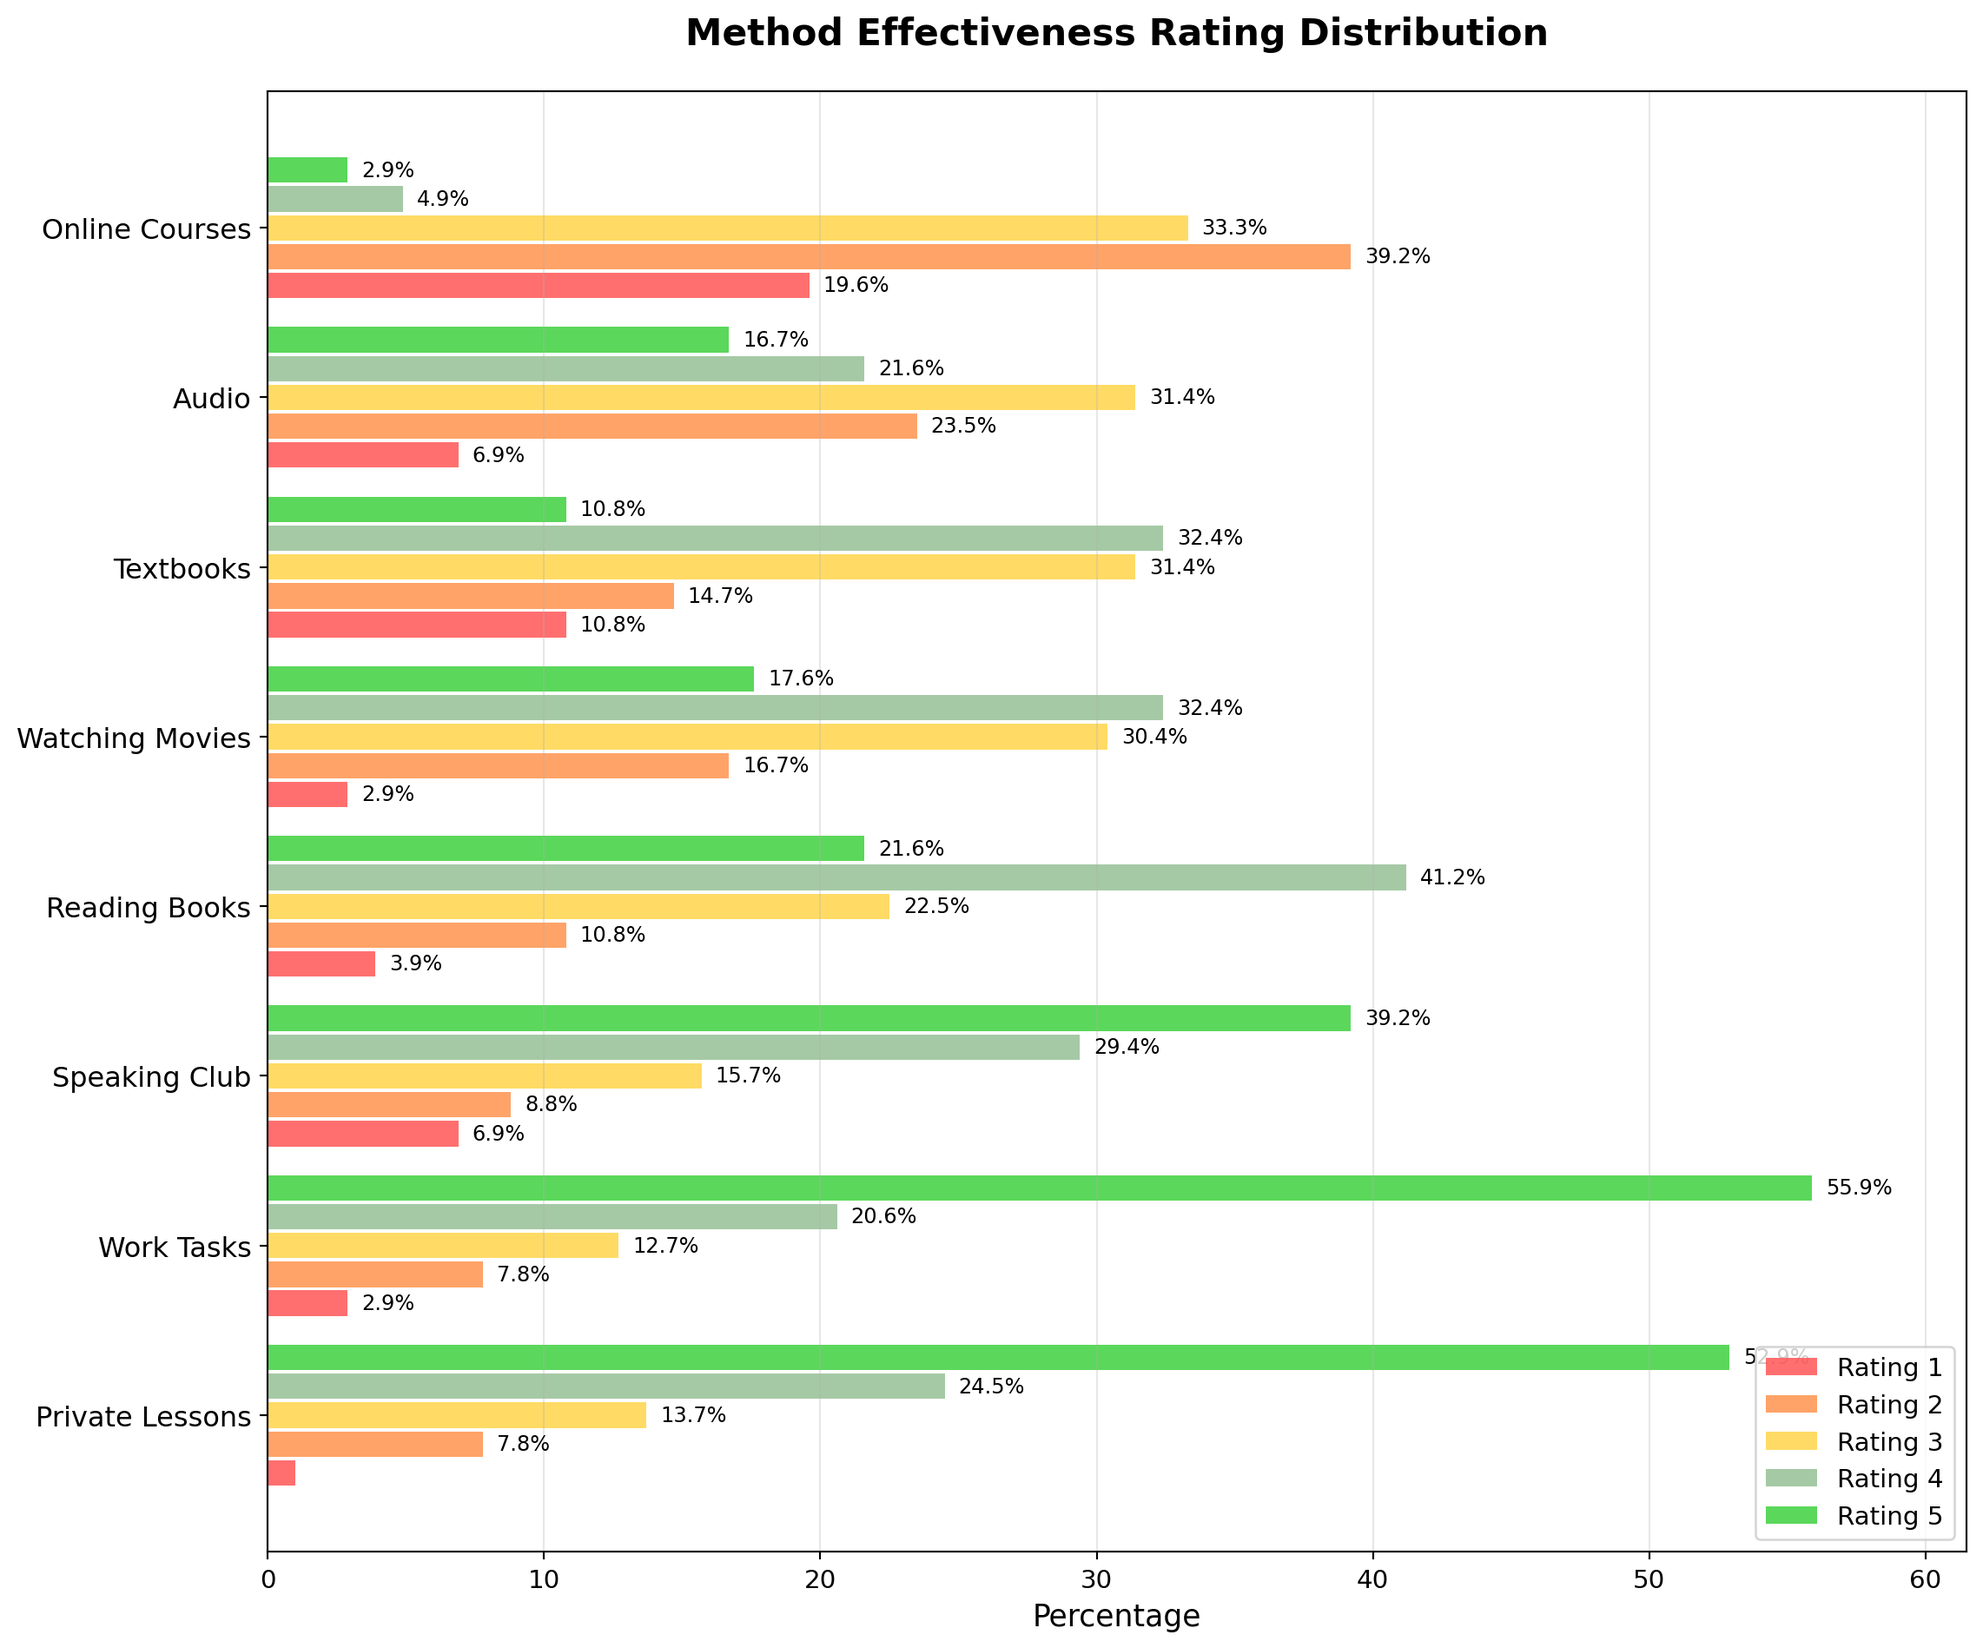
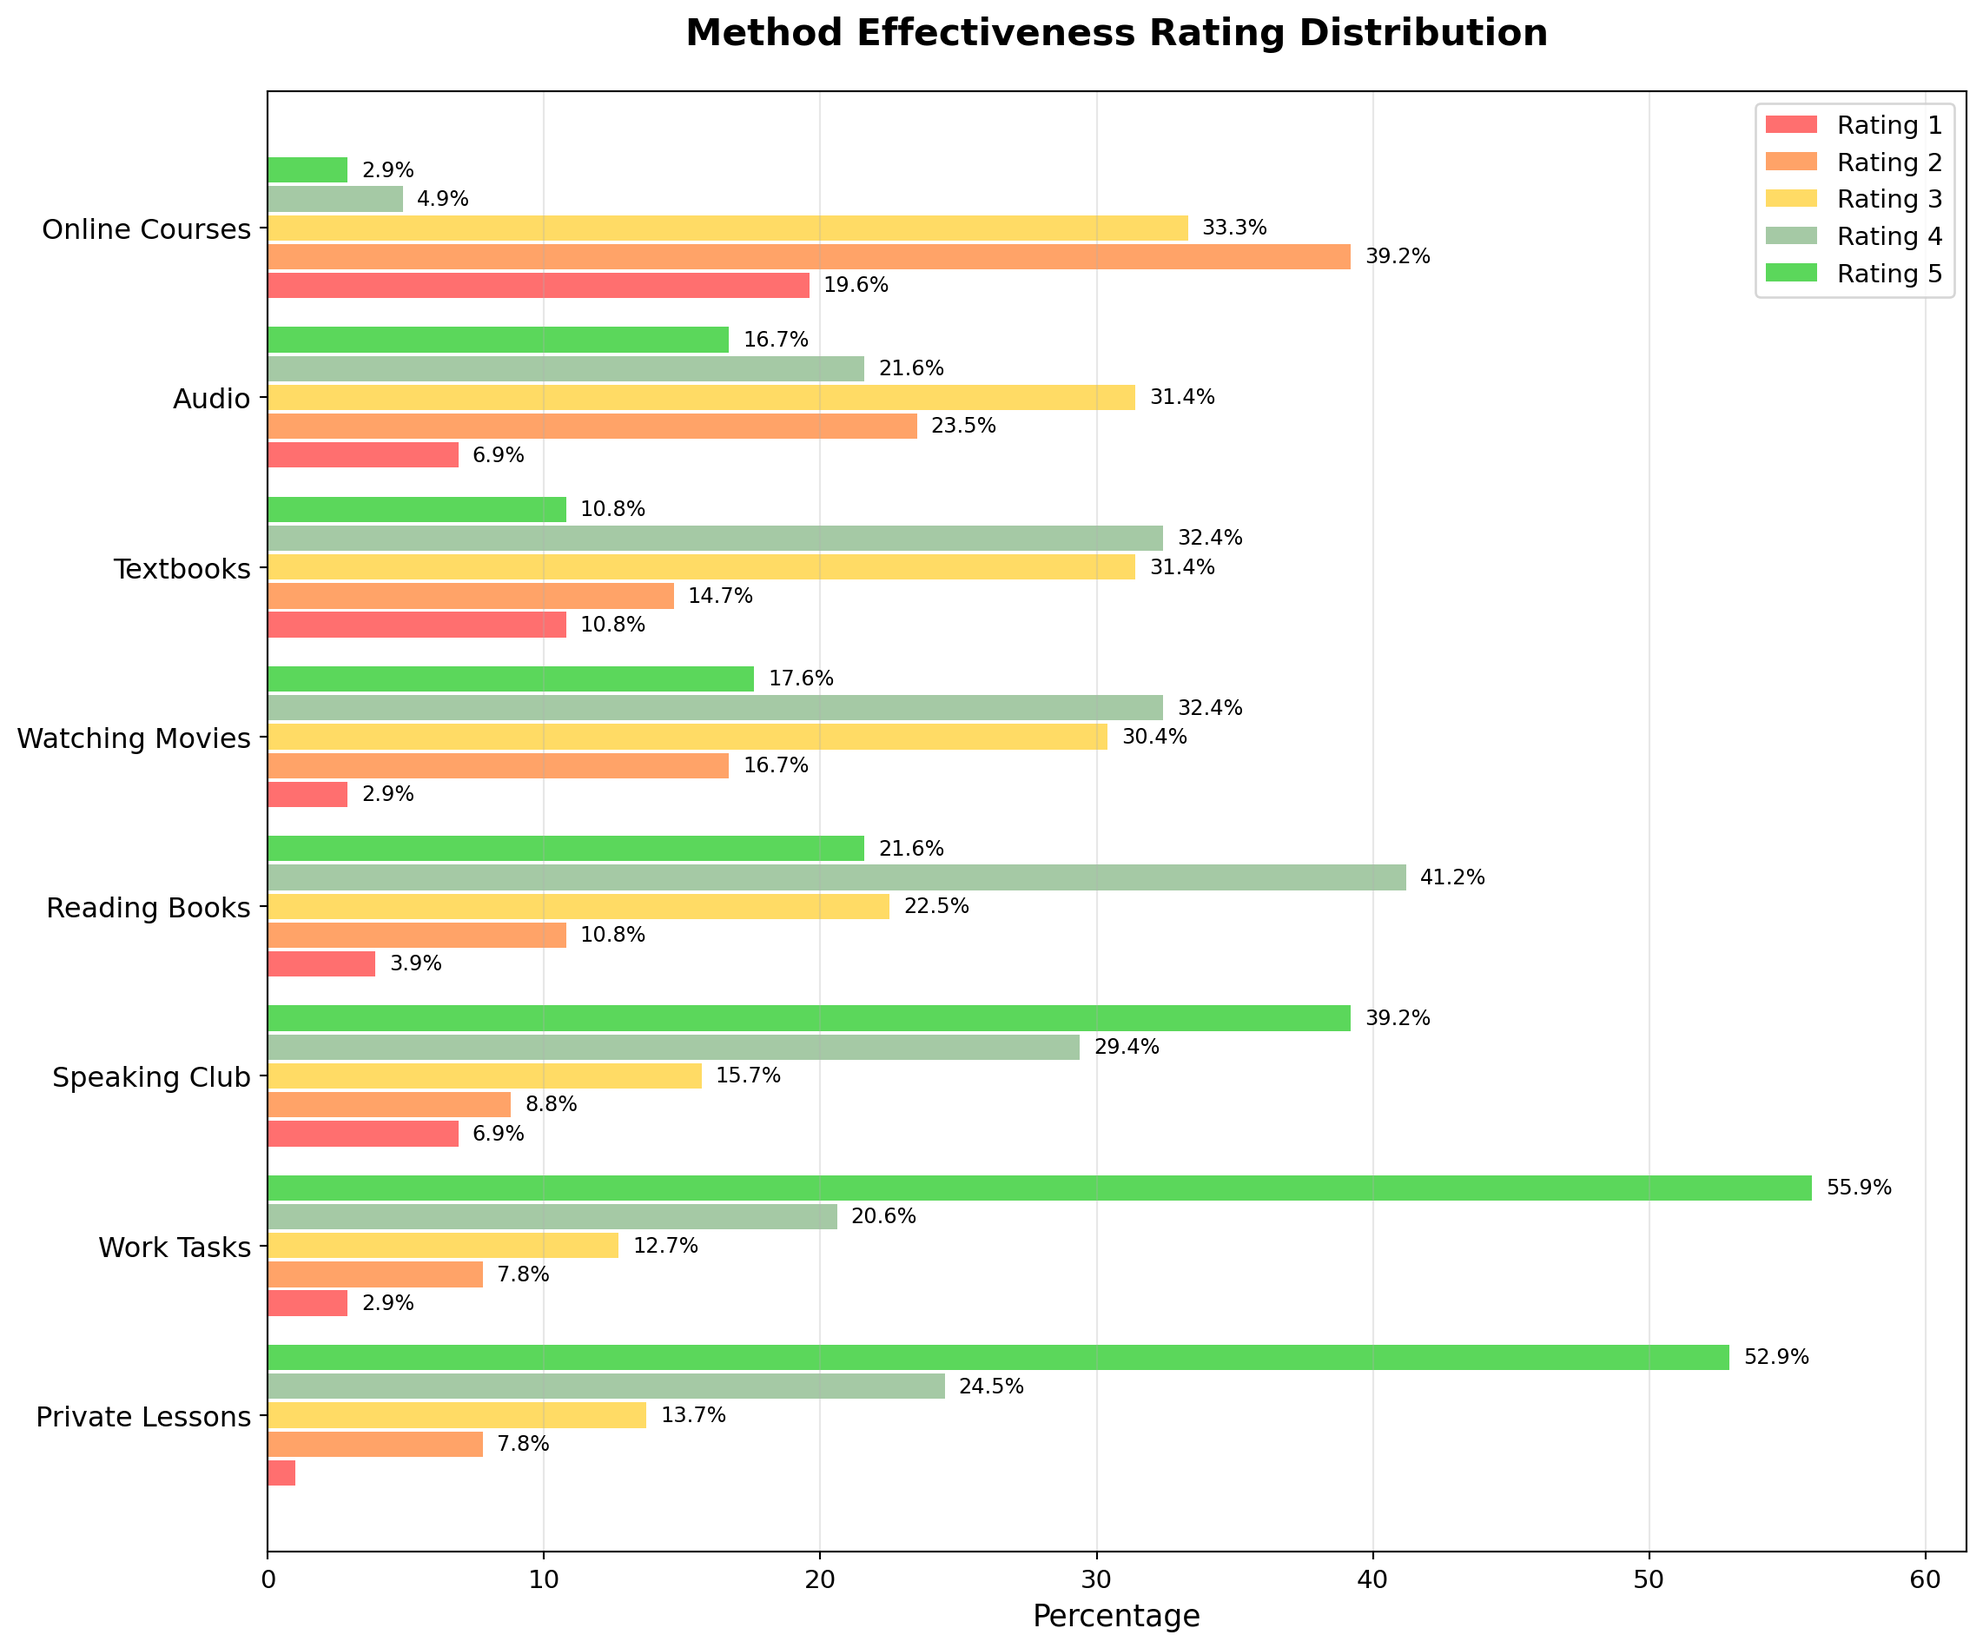
render obstacles

Changed region(s): [[0.8708, 0.8086, 0.9952, 0.9331], [0.8708, 0.0622, 0.9952, 0.1866]]

diff --git a/docs/notebooks/methods.html b/docs/notebooks/methods.html
@@ -184,7 +184,7 @@ pre > code.sourceCode > span > a:first-child::before { text-decoration: underlin
 
 
 <p>This page gives an overview the learning methods included to the survey. Our respondents rated the effectiveness and engagement of each of them on a scale of 1 to 5. Additionally, we asked them to mention additional learning methods they use.</p>
-<div id="a2e73a2b" class="cell" data-execution_count="1">
+<div id="91085343" class="cell" data-execution_count="1">
 <details class="code-fold">
 <summary>Code</summary>
 <div class="sourceCode cell-code" id="cb1"><pre class="sourceCode python code-with-copy"><code class="sourceCode python"><span id="cb1-1"><a href="#cb1-1" aria-hidden="true" tabindex="-1"></a><span class="im">import</span> pandas <span class="im">as</span> pd</span>
@@ -233,7 +233,7 @@ pre > code.sourceCode > span > a:first-child::before { text-decoration: underlin
 </div>
 <section id="method-effectiveness" class="level2">
 <h2 class="anchored" data-anchor-id="method-effectiveness">Method Effectiveness</h2>
-<p>Distribution of effectiveness ratings (1-5 scale) for each learning method. Respondents rated how effective they found each method:</p>
+<p>This chart shows how our respondents assessed the effectiveness of each learning method. For each learning method, the popularity of each ratings (1-5 scale) is shown. Respondents rated the effectiveness of these methods:</p>
 <ul>
 <li><strong>Online Courses</strong>: Structured online learning programs and platforms</li>
 <li><strong>Private Lessons</strong>: One-on-one tutoring with individual instructors<br>
@@ -245,7 +245,7 @@ pre > code.sourceCode > span > a:first-child::before { text-decoration: underlin
 <li><strong>Reading Books</strong>: Literature, articles, and other written content in English</li>
 <li><strong>Work Tasks</strong>: Learning English through professional activities and job requirements</li>
 </ul>
-<div id="4dc1b0dc" class="cell" data-execution_count="2">
+<div id="4f17fd6f" class="cell" data-execution_count="2">
 <details class="code-fold">
 <summary>Code</summary>
 <div class="sourceCode cell-code" id="cb3"><pre class="sourceCode python code-with-copy"><code class="sourceCode python"><span id="cb3-1"><a href="#cb3-1" aria-hidden="true" tabindex="-1"></a><span class="co"># Create combined effectiveness distribution visualization</span></span>
@@ -316,7 +316,7 @@ pre > code.sourceCode > span > a:first-child::before { text-decoration: underlin
 <span id="cb3-66"><a href="#cb3-66" aria-hidden="true" tabindex="-1"></a>ax.set_yticklabels(method_names_eff, fontsize<span class="op">=</span><span class="dv">12</span>)</span>
 <span id="cb3-67"><a href="#cb3-67" aria-hidden="true" tabindex="-1"></a>ax.set_xlabel(<span class="st">'Percentage'</span>, fontsize<span class="op">=</span><span class="dv">13</span>)</span>
 <span id="cb3-68"><a href="#cb3-68" aria-hidden="true" tabindex="-1"></a>ax.set_title(<span class="st">'Method Effectiveness Rating Distribution'</span>, fontsize<span class="op">=</span><span class="dv">16</span>, fontweight<span class="op">=</span><span class="st">'bold'</span>, pad<span class="op">=</span><span class="dv">20</span>)</span>
-<span id="cb3-69"><a href="#cb3-69" aria-hidden="true" tabindex="-1"></a>ax.legend(loc<span class="op">=</span><span class="st">'lower right'</span>, fontsize<span class="op">=</span><span class="dv">11</span>)</span>
+<span id="cb3-69"><a href="#cb3-69" aria-hidden="true" tabindex="-1"></a>ax.legend(loc<span class="op">=</span><span class="st">'upper right'</span>, fontsize<span class="op">=</span><span class="dv">11</span>)</span>
 <span id="cb3-70"><a href="#cb3-70" aria-hidden="true" tabindex="-1"></a>ax.grid(axis<span class="op">=</span><span class="st">'x'</span>, alpha<span class="op">=</span><span class="fl">0.3</span>)</span>
 <span id="cb3-71"><a href="#cb3-71" aria-hidden="true" tabindex="-1"></a>ax.tick_params(axis<span class="op">=</span><span class="st">'x'</span>, labelsize<span class="op">=</span><span class="dv">11</span>)</span>
 <span id="cb3-72"><a href="#cb3-72" aria-hidden="true" tabindex="-1"></a>ax.set_xlim(<span class="dv">0</span>, <span class="bu">max</span>([<span class="bu">max</span>(all_percentages[r]) <span class="cf">for</span> r <span class="kw">in</span> <span class="bu">range</span>(<span class="dv">1</span>, <span class="dv">6</span>)]) <span class="op">*</span> <span class="fl">1.1</span>)</span>
@@ -335,7 +335,7 @@ pre > code.sourceCode > span > a:first-child::before { text-decoration: underlin
 </section>
 <section id="method-engagement" class="level2">
 <h2 class="anchored" data-anchor-id="method-engagement">Method Engagement</h2>
-<p>Distribution of engagement/motivation ratings (1-5 scale) for different learning aspects. Respondents rated how motivated and engaged they felt with each approach:</p>
+<p>This chart shows how our respondents assessed the engagement of each learning method. For each learning method, the popularity of each ratings (1-5 scale) is shown. Respondents rated the engagement of these methods:</p>
 <ul>
 <li><strong>Online Exercises</strong>: Interactive digital activities and practice tasks</li>
 <li><strong>Speaking Club</strong>: Group conversation and discussion sessions<br>
@@ -346,7 +346,7 @@ pre > code.sourceCode > span > a:first-child::before { text-decoration: underlin
 <li><strong>Gamified Learning</strong>: Game-like learning experiences with rewards and progression</li>
 <li><strong>Personalised Feedback</strong>: Individual assessment and customized guidance</li>
 </ul>
-<div id="038d06b8" class="cell" data-execution_count="3">
+<div id="22acdafd" class="cell" data-execution_count="3">
 <details class="code-fold">
 <summary>Code</summary>
 <div class="sourceCode cell-code" id="cb4"><pre class="sourceCode python code-with-copy"><code class="sourceCode python"><span id="cb4-1"><a href="#cb4-1" aria-hidden="true" tabindex="-1"></a><span class="co"># Create combined engagement distribution visualization</span></span>
@@ -414,7 +414,7 @@ pre > code.sourceCode > span > a:first-child::before { text-decoration: underlin
 <span id="cb4-63"><a href="#cb4-63" aria-hidden="true" tabindex="-1"></a>ax.set_yticklabels(method_names_eng, fontsize<span class="op">=</span><span class="dv">12</span>)</span>
 <span id="cb4-64"><a href="#cb4-64" aria-hidden="true" tabindex="-1"></a>ax.set_xlabel(<span class="st">'Percentage'</span>, fontsize<span class="op">=</span><span class="dv">13</span>)</span>
 <span id="cb4-65"><a href="#cb4-65" aria-hidden="true" tabindex="-1"></a>ax.set_title(<span class="st">'Method Engagement Rating Distribution'</span>, fontsize<span class="op">=</span><span class="dv">16</span>, fontweight<span class="op">=</span><span class="st">'bold'</span>, pad<span class="op">=</span><span class="dv">20</span>)</span>
-<span id="cb4-66"><a href="#cb4-66" aria-hidden="true" tabindex="-1"></a>ax.legend(loc<span class="op">=</span><span class="st">'lower right'</span>, fontsize<span class="op">=</span><span class="dv">11</span>)</span>
+<span id="cb4-66"><a href="#cb4-66" aria-hidden="true" tabindex="-1"></a>ax.legend(loc<span class="op">=</span><span class="st">'upper right'</span>, fontsize<span class="op">=</span><span class="dv">11</span>)</span>
 <span id="cb4-67"><a href="#cb4-67" aria-hidden="true" tabindex="-1"></a>ax.grid(axis<span class="op">=</span><span class="st">'x'</span>, alpha<span class="op">=</span><span class="fl">0.3</span>)</span>
 <span id="cb4-68"><a href="#cb4-68" aria-hidden="true" tabindex="-1"></a>ax.tick_params(axis<span class="op">=</span><span class="st">'x'</span>, labelsize<span class="op">=</span><span class="dv">11</span>)</span>
 <span id="cb4-69"><a href="#cb4-69" aria-hidden="true" tabindex="-1"></a>ax.set_xlim(<span class="dv">0</span>, <span class="bu">max</span>([<span class="bu">max</span>(all_percentages_eng[r]) <span class="cf">for</span> r <span class="kw">in</span> <span class="bu">range</span>(<span class="dv">1</span>, <span class="dv">6</span>)]) <span class="op">*</span> <span class="fl">1.1</span>)</span>
@@ -433,8 +433,8 @@ pre > code.sourceCode > span > a:first-child::before { text-decoration: underlin
 </section>
 <section id="combined-effectiveness-vs-engagement" class="level2">
 <h2 class="anchored" data-anchor-id="combined-effectiveness-vs-engagement">Combined Effectiveness vs Engagement</h2>
-<p>Average effectiveness and engagement ratings for methods, shown side by side:</p>
-<div id="1cb3693a" class="cell" data-execution_count="4">
+<p>Combining the assessment of the effectiveness and engagement of each method, this chart shows the average ratings for the methods, side by side:</p>
+<div id="d4dd807d" class="cell" data-execution_count="4">
 <details class="code-fold">
 <summary>Code</summary>
 <div class="sourceCode cell-code" id="cb5"><pre class="sourceCode python code-with-copy"><code class="sourceCode python"><span id="cb5-1"><a href="#cb5-1" aria-hidden="true" tabindex="-1"></a><span class="co"># Calculate averages for methods that appear in both effectiveness and engagement</span></span>
@@ -516,7 +516,7 @@ pre > code.sourceCode > span > a:first-child::before { text-decoration: underlin
 <span id="cb5-77"><a href="#cb5-77" aria-hidden="true" tabindex="-1"></a></span>
 <span id="cb5-78"><a href="#cb5-78" aria-hidden="true" tabindex="-1"></a><span class="co"># Modern, accessible styling</span></span>
 <span id="cb5-79"><a href="#cb5-79" aria-hidden="true" tabindex="-1"></a>ax.set_xlabel(<span class="st">'Rating (1 = Poor, 5 = Excellent)'</span>, fontsize<span class="op">=</span><span class="dv">13</span>, fontweight<span class="op">=</span><span class="st">'600'</span>, color<span class="op">=</span><span class="st">'#2c3e50'</span>)</span>
-<span id="cb5-80"><a href="#cb5-80" aria-hidden="true" tabindex="-1"></a>ax.set_title(<span class="st">'Which Learning Method Work Best?'</span>, </span>
+<span id="cb5-80"><a href="#cb5-80" aria-hidden="true" tabindex="-1"></a>ax.set_title(<span class="st">'Which Learning Methods Work Best?'</span>, </span>
 <span id="cb5-81"><a href="#cb5-81" aria-hidden="true" tabindex="-1"></a>             fontweight<span class="op">=</span><span class="st">'bold'</span>, fontsize<span class="op">=</span><span class="dv">16</span>, color<span class="op">=</span><span class="st">'#2c3e50'</span>, pad<span class="op">=</span><span class="dv">20</span>)</span>
 <span id="cb5-82"><a href="#cb5-82" aria-hidden="true" tabindex="-1"></a>ax.set_yticks(y)</span>
 <span id="cb5-83"><a href="#cb5-83" aria-hidden="true" tabindex="-1"></a>ax.set_yticklabels(method_names, fontsize<span class="op">=</span><span class="dv">12</span>, fontweight<span class="op">=</span><span class="st">'500'</span>, color<span class="op">=</span><span class="st">'#34495e'</span>)</span>
@@ -557,7 +557,7 @@ pre > code.sourceCode > span > a:first-child::before { text-decoration: underlin
 <section id="interactive-extra-learning-methods" class="level3">
 <h3 class="anchored" data-anchor-id="interactive-extra-learning-methods">Interactive: Extra Learning Methods</h3>
 <p>The table below shows additional learning methods mentioned by respondents in their free-text responses. Use the language toggle to switch between original and English translations.</p>
-<div id="93de11a1" class="cell" data-results="asis" data-execution_count="5">
+<div id="2fce9584" class="cell" data-results="asis" data-execution_count="5">
 <div class="cell-output cell-output-display">
 <style>
         .lang-toggle-btn { 

diff --git a/docs/notebooks/obstacles.html b/docs/notebooks/obstacles.html
@@ -185,7 +185,7 @@ pre > code.sourceCode > span > a:first-child::before { text-decoration: underlin
 
 <p>This page analyzes responses to the survey question: <em>“Have you ever stopped learning English? If so, what were the main obstacles?”</em></p>
 <p>The free-text responses were analyzed and labeled by an LLM (Large Language Model) to identify common obstacle categories.</p>
-<div id="145c5a96" class="cell" data-execution_count="1">
+<div id="9e0140fe" class="cell" data-execution_count="1">
 <details class="code-fold">
 <summary>Code</summary>
 <div class="sourceCode cell-code" id="cb1"><pre class="sourceCode python code-with-copy"><code class="sourceCode python"><span id="cb1-1"><a href="#cb1-1" aria-hidden="true" tabindex="-1"></a><span class="im">import</span> pandas <span class="im">as</span> pd</span>
@@ -243,7 +243,7 @@ pre > code.sourceCode > span > a:first-child::before { text-decoration: underlin
 <section id="obstacles-by-popularity" class="level3">
 <h3 class="anchored" data-anchor-id="obstacles-by-popularity">Obstacles by popularity</h3>
 <p>The chart below ranks obstacles by the number of respondents who mentioned them. Each obstacle category represents a cluster of similar responses identified by the LLM analysis.</p>
-<div id="f896a8c3" class="cell" data-execution_count="2">
+<div id="87099f65" class="cell" data-execution_count="2">
 <details class="code-fold">
 <summary>Code</summary>
 <div class="sourceCode cell-code" id="cb2"><pre class="sourceCode python code-with-copy"><code class="sourceCode python"><span id="cb2-1"><a href="#cb2-1" aria-hidden="true" tabindex="-1"></a><span class="im">import</span> matplotlib.pyplot <span class="im">as</span> plt</span>
@@ -267,7 +267,7 @@ pre > code.sourceCode > span > a:first-child::before { text-decoration: underlin
 </div>
 </div>
 </div>
-<div id="3aa1b878" class="cell" data-execution_count="3">
+<div id="c616e93c" class="cell" data-execution_count="3">
 <details class="code-fold">
 <summary>Code</summary>
 <div class="sourceCode cell-code" id="cb3"><pre class="sourceCode python code-with-copy"><code class="sourceCode python"><span id="cb3-1"><a href="#cb3-1" aria-hidden="true" tabindex="-1"></a><span class="co"># Display the ordered table with explanations (show full text, no truncation, no index column)</span></span>
@@ -344,7 +344,7 @@ pre > code.sourceCode > span > a:first-child::before { text-decoration: underlin
 <section id="interactive-all-examples-with-english-translations" class="level3">
 <h3 class="anchored" data-anchor-id="interactive-all-examples-with-english-translations">Interactive: All examples with English translations</h3>
 <p>The table below lists every respondent’s free-text obstacle answer alongside the set of mapped obstacles (labels). Use the buttons to filter by obstacle label and toggle between original and English text.</p>
-<div id="6951e98c" class="cell" data-results="asis" data-execution_count="4">
+<div id="eeb876ee" class="cell" data-results="asis" data-execution_count="4">
 <div class="cell-output cell-output-display">
 <style>
   .tag-filter-btn { cursor: pointer; margin: 0 6px 6px 0; padding: 6px 10px; border-radius: 18px; background: #eee; border: 1px solid #ddd; }
